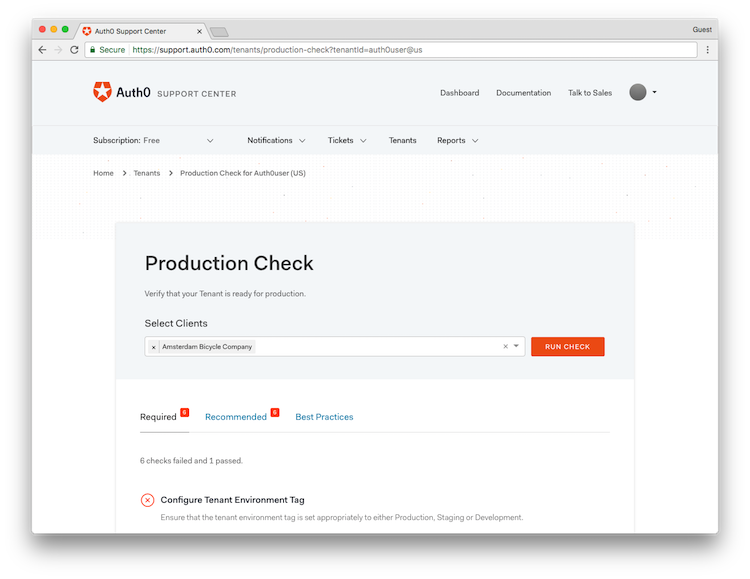
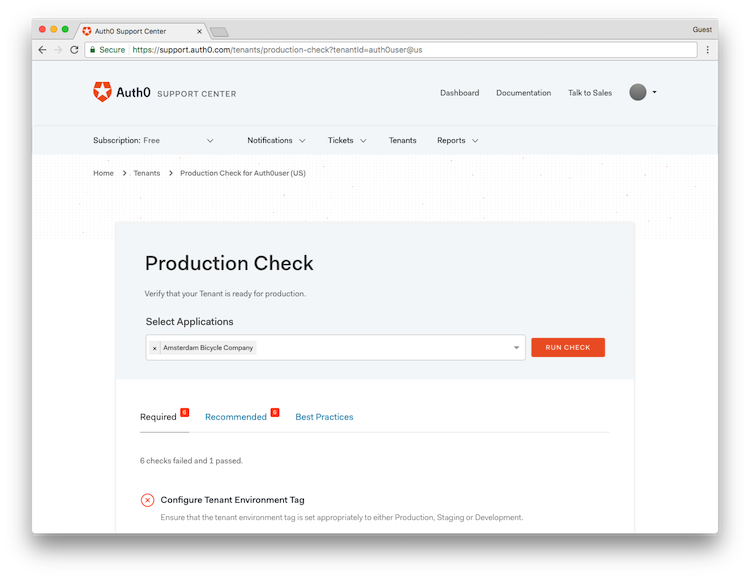
Production Checks updates (#6332)

Changed region(s): [[0.184, 0.5285, 0.3373, 0.6218], [0.6747, 0.5596, 0.828, 0.6218]]

diff --git a/articles/pre-deployment/index.html b/articles/pre-deployment/index.html
@@ -1,31 +1,32 @@
 ---
 classes: topic-page
-title: Pre-Deployment Tests
+title: Production Checks
 topics:
     - pre-deployment
     - pre-deployments-tests
     - tests
+    - production-checks
 ---
 
 <div class="topic-page-header">
   <div data-name="example" class="topic-page-badge"></div>
-  <h1>Pre-Deployment Tests</h1>
+  <h1>Production Checks</h1>
   <p>
-    Before you go live, run Auth0's pre-deployment test suite to ensure that your tenants are ready for use in a production environment.
+    Before you go live, run Auth0's production checks suite to ensure that your tenants are ready for use in a production environment.
   </p>
 </div>
 
 <ul class="topic-links">
   <li>
-    <i class="icon icon-budicon-715"></i><a href="/pre-deployment/how-to-run-test">How to Run the Pre-Deployment Tests</a>
+    <i class="icon icon-budicon-715"></i><a href="/pre-deployment/how-to-run-test">How to Run the Production Checks</a>
     <p>
-      Run the pre-deployment tests against one or more applications to see if they're production-ready or not.
+      Run the production checks against one or more applications to see if they're production-ready or not.
     </p>
   </li>
   <li>
-    <i class="icon icon-budicon-715"></i>Pre-Deployment Test Results
+    <i class="icon icon-budicon-715"></i><a href="/pre-deployment/how-to-run-test#production-check-results">Production Check Results</a>
     <p>
-      View your results to see any outstanding required and recommended tasks, as well changes you can make to ensure that you comply with best practices.
+      Production checks fall into the following categories:
     </p>
     <ul>
       <li>
@@ -38,6 +39,12 @@ topics:
         <i class="icon icon-budicon-695"></i><a href="/pre-deployment/tests/best-practice">Fixes to Comply with Best Practices</a>
       </li>
     </ul>
+  </li>
+  <li>
+    <i class="icon icon-budicon-715"></i><a href="/pre-deployment/how-to-run-test#how-to-read-your-results-set">How to Read Your Results Set</a>
+    <p>
+      View your results to see any outstanding required and recommended tasks, as well as changes you can make to ensure that you comply with best practices.
+    </p>
   </li>
   <li>
     <i class="icon icon-budicon-715"></i><a href="/pre-deployment/prelaunch-tips">Pre-Launch Tips</a>

diff --git a/articles/pre-deployment/how-to-run-test.md b/articles/pre-deployment/how-to-run-test.md
@@ -1,14 +1,16 @@
 ---
-description: How to run the Auth0 Pre-Deployment Tests to ensure that your Applications are production-ready
+description: How to run the Auth0 Production Check to ensure that your Applications are production-ready
 topics:
     - pre-deployment
     - pre-deployments-tests
     - tests
+    - production-checks
+contentType: how-to
 ---
 
-# How to Run the Pre-Deployment Test
+# How to Run the Production Checks
 
-The Pre-Deployment Tests are available via the [Auth0 Support Center](${env.DOMAIN_URL_SUPPORT}).
+The Production Checks can be reviewed in the [Auth0 Support Center Tenants section](${env.DOMAIN_URL_SUPPORT}/tenants/public).
 
 ![](/media/articles/support/pre-deployment-tests/support-home.png)
 
@@ -16,45 +18,48 @@ Once you've logged in to your account, click **Tenants** in the navigation bar.
 
 ![](/media/articles/support/pre-deployment-tests/tenants.png)
 
-You'll see a listing of all tenants associated with your Auth0 account. Each tenant displays in its own box. Identify the tenant for which you want to run the Pre-Deployment Tests, and click on the **gear icon** located in the top right-hand corner of its box.
+You'll see a listing of all tenants associated with your Auth0 account. Each tenant displays in its own box. Identify the tenant for which you want to run the Production Checks, and click on the **gear icon** located in the top right-hand corner of its box.
 
 ![](/media/articles/support/pre-deployment-tests/tenants-tests.png)
 
 Click **Run Production Check** to launch the testing interface.
 
-At this point, you'll be able to select one or more [Applications](/applications) associated with this tenant for which you want tests run.
+At this point, you'll be able to select one or more [Applications](/applications) associated with this tenant for which you want checks run.
 
-![](/media/articles/support/pre-deployment-tests/choose-clients.png)
+![](/media/articles/support/pre-deployment-tests/choose-applications.png)
 
 Once you've selected your applications, click **Run Check**.
 
-When the test is complete, your screen will automatically refresh to display your test results. 
+When the test is complete, your screen will automatically refresh to display your check results. 
 
 ![](/media/articles/support/pre-deployment-tests/results.png)
 
-There are three types of test results: Required, Recommended, and Best Practices.
+
+## Production Check Results
+
+There are three types of check results: Required, Recommended, and Best Practices.
 
 | Result Type | Description |
 | ----------- | ----------- |
-| Required | These tests check to see if you are missing any steps you **must** complete before deploying to Production, otherwise you'll see errors. |
-| Recommended | These tests check to see if you are missing any steps **recommended** by Auth0. While you do not have to complete the steps suggested, we recommend that you at least review the results to see if any of them are helpful to your implementation.
-| Best Practices | These areas are ones where Auth0 cannot check using automates tests. We list areas of possible concern, and we suggest that you review your implementation to see if you're compliant with Auth0 recommendations. |
+| Required | These checks see if you are missing any steps you **must** complete before deploying to Production; otherwise you'll see errors. |
+| Recommended | These checks see if you are missing any steps **recommended** by Auth0. While you do not have to complete the steps suggested, we recommend that you at least review the results to see if any of them are helpful to your implementation.
+| Best Practices | These areas are ones where Auth0 cannot use automated checks. We list areas of possible concern, and we suggest that you review your implementation to see if you're compliant with Auth0 recommendations. |
 
 ## How to Read Your Results Set
 
-The following are possible results for your test: Passed, Failed, Unable to Verify.
+The following are possible results for your check: Passed, Failed, Unable to Verify.
 
-Under each set of test results, Auth0 tells you how many tests your Application passed, as well as how many tests your Applications failed.
+Under each set of check results, Auth0 tells you how many checks your Application passed, as well as how many checks your Application failed.
 
 ![](/media/articles/support/pre-deployment-tests/reading-results.png)
 
-If your Applications **failed** one or more tests, Auth0 provides you:
+If your Application **failed** one or more checkss, Auth0 provides:
 
-* The name of the test
-* Information on what the test is looking for
-* Details on the error thrown to and retrieved by the test
-* Hyperlink to the appropriate area where you can make the required fixes so that your Application passes the test
+* The name of the check
+* Information on what the check is looking for
+* Details on the error thrown to and retrieved by the check
+* Hyperlink to the appropriate area where you can make the required fixes so that your Application passes the check
 
 ![](/media/articles/support/pre-deployment-tests/detailed-results.png)
 
-All of the tests that your Application **passed** are grouped together at the bottom of the results set. You can view the name of and information about the test, as well as review the associated documentation and use the hyperlink to go to the corresponding configuration area where you can make changes (if desired).
+All of the checks that your Application **passed** are grouped together at the bottom of the results set. You can view the name of and information about the check, as well as review the associated documentation and use the hyperlink to go to the corresponding configuration area where you can make changes (if desired).

diff --git a/articles/pre-deployment/tests/required.md b/articles/pre-deployment/tests/required.md
@@ -5,22 +5,29 @@ topics:
     - pre-deployments-tests
     - tests
     - requirements
+    - production-checks
+contentType: reference
 ---
 
-# Pre-Deployment Tests: Required Fixes
+# Production Checks: Required Fixes
 
-The following tests check to see if you've completed all requirements for successful deployment to Production.
+The following checks see if you've completed all requirements for successful deployment to Production.
 
 ::: note
-See [How to Read Your Results Set](/pre-deployment/how-to-run-test#how-to-read-your-results-set) for additional information on your testing output.
+See [How to Read Your Results Set](/pre-deployment/how-to-run-test#how-to-read-your-results-set) for additional information on your checks output.
 :::
 
-| Test | Description |
+| Check | Description |
 | ---- | ----------- |
-| [Allowed Callback Urls](tutorials/redirecting-users) Not Localhost | Validates the [Application Allowed Callback URLs do not point to localhost](${manage_url}/#/applications), 127.0.0.1, and so on |
-| Configure [Guardian SMS Provider](/multifactor-authentication/administrator/twilio-configuration) (Dependency: Guardian is Configured) | Ensures that [Twilio SMS is configured](${manage_url}/#/guardian) if you're using Guardian MFA |
-| Configure Tenant Environment Tag | Ensures the [tenant environment tag is set](${env.DOMAIN_URL_SUPPORT}/tenants/public) appropriately to Production, Staging or Development |
-| [Email Provider](/email/providers) Configured | Verifies that the [custom email provider has been configured](${manage_url}/#/emails/provider) |
-| [Social Connections](/connections/social/devkeys) Auth0 Dev Keys | Verifies that [Social Connections are not using the default Auth0 developer keys](${manage_url}/#/connections/social) |
-| Support Email is Configured | Ensures the [Support Email is configured](${manage_url}/#/account) in Tenant Settings |
-| Support URL is Configured | Ensures the [Support URL is configured](${manage_url}/#/account) in Tenant Settings |
+| [Allow ID Tokens for Management API v2 Authentication](/migrations/guides/calling-api-with-idtokens) is disabled | The capabilities for using ID Tokens to authorize some of the Users and Device Credentials endpoints of the Management API are being deprecated. After completing migration to Access Tokens, make sure the [`Allow ID Tokens for Management API v2 Authentication` toggle is turned off](${manage_url}/#/account/advanced). |
+| [Allowed Callback URLs](/tutorials/redirecting-users) are not Localhost | Validates the [Application Allowed Callback URLs do not point to localhost](${manage_url}/#/applications), 127.0.0.1, and so on. |
+| [Allowed Origins (CORS)](/cross-origin-authentication) is not Localhost | Validates that the [Location URL for the page does not point to localhost](${manage_url}/#/applications). |
+| [Allowed Web Origins are not Localhost](/applications/application-settings) | Validates that the [Allowed Web Origins URLs do not point to localhost](${manage_url}/#/applications). |
+| [Email Provider](/email/providers) is configured | Verifies that the [custom email provider has been configured](${manage_url}/#/emails/provider). |
+| [Guardian SMS Provider](/multifactor-authentication/administrator/twilio-configuration) is configured (Dependency: Guardian is configured) | Ensures that [Twilio SMS is configured](${manage_url}/#/guardian) if you're using Guardian MFA. |
+| [Legacy Lock Migration](/libraries/lock/v11/migration-guide#disabling-legacy-lock-api) is disabled | The `/usernamepassword/login` and `/ssodata` endpoints will be removed from service on July 16th, 2018. These are used by Lock.js v8, v9, v10, and auth0.js v6, v7 and v8. After completing the migration to the latest versions, make sure the [`Legacy Lock Migration` toggle is turned off](${manage_url}/#/account/advanced). |
+| [Legacy User Profile](/guides/migration-legacy-flows#user-profiles) is disabled | The legacy authentication flows that allow ID Tokens and the `/userinfo` endpoint to include the complete user profile are being deprecated. After completing the migration to the new OIDC-conformant APIs, make sure the [`Legacy User Profile` toggle is turned off](${manage_url}/#/account/advanced). |
+| [Social Connections](/connections/social/devkeys) are not using Auth0 Developer Keys | Verifies that [Social Connections are not using the default Auth0 developer keys](${manage_url}/#/connections/social). |
+| Support Email is configured | Ensures the [Support Email is configured](${manage_url}/#/account) in Tenant Settings. |
+| Support URL is configured | Ensures the [Support URL is configured](${manage_url}/#/account) in Tenant Settings. |
+| Tenant Environment Tag is configured | Ensures the [tenant environment tag is set](${env.DOMAIN_URL_SUPPORT}/tenants/public) appropriately to Production, Staging, or Development. |

diff --git a/articles/pre-deployment/tests/recommended.md b/articles/pre-deployment/tests/recommended.md
@@ -5,24 +5,28 @@ topics:
     - pre-deployments-tests
     - tests
     - recommendations
+    - production-checks
+contentType: reference
 ---
 
-# Pre-Deployment Tests: Recommended Fixes
+# Production Checks: Recommended Fixes
 
-The following tests check to see if you've completed all recommendations (which are optional) for successful deployment to Production.
+The following checks see if you've completed all recommendations (which are optional) for successful deployment to Production.
 
 ::: note
-See [How to Read Your Results Set](/pre-deployment/how-to-run-test#how-to-read-your-results-set) for additional information on your testing output.
+See [How to Read Your Results Set](/pre-deployment/how-to-run-test#how-to-read-your-results-set) for additional information on your checks output.
 :::
 
-| Test | Description |
+| Check | Description |
 | ---- | ----------- |
-| [Customer Error Page](/hosted-pages/custom-error-pages) Configured | [Configure a Custom Error Page](${manage_url}/#/account) with your application-specific details and corporate branding |
-| Customize [Guardian Multifactor Page](/hosted-pages/guardian) | If you're using Guardian Multifactor Authentication, [configure a Custom Hosted Page for Guardian Multifactor](${manage_url}/#/guardian_mfa_page) with your application details and corporate branding |
-| Customize [Login Page](/hosted-pages/login) | [Configure a Custom Hosted Page for Universal Login](${manage_url}/#/login_page) with your application details and corporate branding |
-| Customize [Password Reset Page](/hosted-pages/password-reset) | [Configure a Custom Hosted Page for Password Reset](${manage_url}/#/password_reset) with your application details and corporate branding |
-| [Email Templates](/email/custom) Configured | [Configure custom email templates](${manage_url}/#/emails) with your application specific details and corporate branding |
-| Enable [MFA for Tenant Administrators](/tutorials/manage-dashboard-admins) | [Enable multifactor authentication](${manage_url}/#/account/admins) for tenant administrators |
-| [Guardian Multifactor](/multifactor-authentication) or other Multifactor Authentication Providers | Consider [multifactor authentication](${manage_url}/#/guardian) as part of the authentication strategy |
-| [Redirect Logout URL](/logout#set-the-allowed-logout-urls-at-the-account-level) | Review the [Allowed Redirect Logout URLs](${manage_url}/#/account/advanced) for your Applications |
-| Use RS256 Instead of HS256 | Set the JSONWebToken [Signature Algorithm](/apis#signing-algorithms) to RS256 instead of HS256 |
+| [Authorization Extension](/extensions/authorization-extension/v2) | Evaluate the [Authorization Extension if you have authorization requirements](${manage_url}/#/extensions). |
+| [Custom Domain](/custom-domains) is configured | Use [custom domains with Universal Login](${manage_url}/#/tenant/custom_domains) for the most seamless and secure experience for your end users. |
+| [Custom Error Page](/hosted-pages/custom-error-pages) is configured | [Configure a Custom Error Page](${manage_url}/#/account) with your application-specific details and corporate branding. |
+| [Email Templates](/email/custom) are configured | [Configure custom email templates](${manage_url}/#/emails) with your application specific details and corporate branding. |
+| [Guardian Multifactor](/multifactor-authentication) or other Multifactor Authentication Providers | Consider [multifactor authentication](${manage_url}/#/guardian) as part of the authentication strategy. |
+| [Guardian Multifactor Page](/hosted-pages/guardian) is customized | If you're using Guardian Multifactor Authentication, [configure a Custom Hosted Page for Guardian Multifactor](${manage_url}/#/guardian_mfa_page) with your application details and corporate branding. |
+| [Hosted Login Page](/hosted-pages/login) is customized | [Configure a Custom Hosted Page for Universal Login](${manage_url}/#/login_page) with your application details and corporate branding. |
+| [MFA for Tenant Administrators](/tutorials/manage-dashboard-admins) is enabled | [Enable multifactor authentication](${manage_url}/#/account/admins) for tenant administrators. |
+| [Password Reset Page](/hosted-pages/password-reset) is customized | [Configure a Custom Hosted Page for Password Reset](${manage_url}/#/password_reset) with your application details and corporate branding. |
+| [Redirect Logout URL](/logout#set-the-allowed-logout-urls-at-the-account-level) | Review the [Allowed Redirect Logout URLs](${manage_url}/#/account/advanced) for your Application. |
+| Use RS256 Instead of HS256 | Set the JSONWebToken [Signature Algorithm](/apis#signing-algorithms) to RS256 instead of HS256. |

diff --git a/articles/applications/application-settings/_settings-pt2.md b/articles/applications/application-settings/_settings-pt2.md
@@ -1,12 +1,12 @@
 <!-- markdownlint-disable -->
 
-- **Allowed Callback URLs**: Set of URLs to which Auth0 is allowed to redirect the users after they authenticate. You can specify multiple valid URLs by comma-separating them (typically to handle different environments like QA or testing). You can use the star symbol as a wildcard for subdomains (`*.google.com`). Make sure to specify the protocol, `http://` or `https://`, otherwise the callback may fail in some cases.
+- **Allowed Callback URLs**: Set of URLs to which Auth0 is allowed to redirect the users after they authenticate. You can specify multiple valid URLs by comma-separating them (typically to handle different environments like QA or testing). For production environments, verify that the URLs do not point to localhost. You can use the star symbol as a wildcard for subdomains (`*.google.com`). Make sure to specify the protocol, `http://` or `https://`, otherwise the callback may fail in some cases.
 
-- **Allowed Web Origins**: List of URLs from where an authorization request, using [`web_message` as the response mode](/protocols/oauth2#how-response-mode-works), can originate from. You can specify multiple valid URLs by comma-separating them.
+- **Allowed Web Origins**: List of URLs from where an authorization request, using [`web_message` as the response mode](/protocols/oauth2#how-response-mode-works), can originate from. You can specify multiple valid URLs by comma-separating them. For production environments, verify that the URLs do not point to localhost.
 
-- **Allowed Logout URLs**: After a user logs out from Auth0 you can redirect them with the `returnTo` query parameter. The URL that you use in `returnTo` must be listed here. You can specify multiple valid URLs by comma-separating them. You can use the star symbol as a wildcard for subdomains (`*.google.com`). Notice that querystrings and hash information are not taken into account when validating these URLs. Read more about this at: [Logout](/logout).
+- **Allowed Logout URLs**: After a user logs out from Auth0 you can redirect them with the `returnTo` query parameter. The URL that you use in `returnTo` must be listed here. You can specify multiple valid URLs by comma-separating them.  For production environments, verify that the URLs do not point to localhost. You can use the star symbol as a wildcard for subdomains (`*.google.com`). Notice that querystrings and hash information are not taken into account when validating these URLs. Read more about this at: [Logout](/logout).
 
-- **Allowed Origins (CORS)**: Set of URLs that will be allowed to make requests from JavaScript to Auth0 API (typically used with CORS). This prevents same-origin policy errors when using Auth0 from within a web browser. By default, all your callback URLs will be allowed. This field allows you to enter other origins if you need to. You can specify multiple valid URLs by comma-separating them. You can use the star symbol as a wildcard for subdomains (`*.google.com`). Notice that paths, querystrings and hash information are not taken into account when validating these URLs (and may, in fact, cause the match to fail).
+- **Allowed Origins (CORS)**: Set of URLs that will be allowed to make requests from JavaScript to Auth0 API (typically used with CORS). This prevents same-origin policy errors when using Auth0 from within a web browser. By default, all your callback URLs will be allowed. This field allows you to enter other origins if you need to. You can specify multiple valid URLs by comma-separating them. For production environments, verify that the URLs do not point to localhost. You can use the star symbol as a wildcard for subdomains (`*.google.com`). Notice that paths, querystrings and hash information are not taken into account when validating these URLs (and may, in fact, cause the match to fail).
 
 - **JWT Expiration (seconds)**: The amount of time (in seconds) before the Auth0 ID Token expires. The default value is `36000`, which maps to 10 hours.
 

diff --git a/articles/pre-deployment/tests/best-practice.md b/articles/pre-deployment/tests/best-practice.md
@@ -5,18 +5,20 @@ topics:
     - pre-deployments-tests
     - tests
     - best-practices
+    - production-checks
+contentType: reference
 ---
 
-# Pre-Deployment Tests: Best Practices
+# Production Checks: Best Practices
 
 The following checks cannot be automated, so we recommend manually checking these areas prior to deployment to Production.
 
 | Check | Description |
 | ---- | ----------- |
-| [Anomaly Detection](/anomaly-detection) | Review your account's [Anomaly Detection](${manage_url}/#/anomaly) capability and configuration |
-| Externalize [Configuration Parameters](/connections/database/mysql#4-add-configuration-parameters) | [Externalize, instead of hard code, all configuration parameters](${manage_url}/#/connections/database), such as credentials, connection strings, API keys, and so on, when developing Rules, Hooks, or custom database connections |
-| Restrict Delegation | If not using Delegation, set the Allowed Apps and APIs field of your Application Settings to the current Client ID |
-| SSO Timeout Values | Review the default [SSO cookie timeout values](${manage_url}/#/account/advanced) and ensure it aligns with your requirements |
+| [Anomaly Detection](/anomaly-detection) | Review your account's [Anomaly Detection capability and configuration](${manage_url}/#/anomaly). |
+| Externalize [Configuration Parameters](/connections/database/mysql#4-add-configuration-parameters) | [Externalize, instead of hard code, all configuration parameters](${manage_url}/#/connections/database), such as credentials, connection strings, API keys, and so on, when developing Rules, Hooks, or custom database connections. |
+| [Restrict Delegation](/applications/application-settings/single-page-app#oauth) | If not using Delegation, set the Allowed Apps and APIs field of your Application Settings to the current Client ID. |
+| SSO Timeout Values | Review the default [SSO cookie timeout values](${manage_url}/#/account/advanced) and ensure they align with your requirements. |
 | Tenants and Administrators | Review all tenants and tenant administrators to ensure they are correct. Decommission tenants that are no longer in use. Ensure that tenant administrators are limited to the necessary users. |
-| Verify Client IDs in App Code | Ensure that the Client IDs in your application code match those with their Auth0 Application configurations |
-| Whitelist Auth0 Public IPs | Whitelist Auth0 IPs if you're connecting to internal services or services behind a firewall when using Rules, Hooks, or custom databases. You can get a list of IP addresses in the tool tip when configuring any of these items |
+| Verify Client IDs in App Code | Ensure that the Client IDs in your application code align with their Auth0 Application configurations. |
+| Whitelist Auth0 Public IPs | Whitelist Auth0 IPs if you're connecting to internal services or services behind a firewall when using Rules, Hooks, or custom databases. You can get a list of IP addresses in the tool tip when configuring any of these items. |

diff --git a/articles/migrations/guides/calling-api-with-idtokens.md b/articles/migrations/guides/calling-api-with-idtokens.md
@@ -7,17 +7,21 @@ topics:
   - management-api
   - id-tokens
   - tokens
+contentType: 
+    - concept
+    - how-to
+    - reference
 ---
 
 # Migration Guide: Management API and ID Tokens
 
 For some use cases you could use [ID Tokens](/tokens/id-token) in order to call some of the [Users](/api/management/v2#!/Users/get_users_by_id) and [Device Credentials](/api/management/v2#!/Device_Credentials/get_device_credentials) endpoints of the Management API. 
 
-This functionality is being deprecated. You will have to use proper [Access Tokens](/tokens/access-token) in order to access any of the endpoints of the [Management API](/api/management/v2).
+This functionality is being deprecated. You will have to use proper [Access Tokens](/tokens/access-token) in order to access any of the endpoints of the [Management API](/api/management/v2). Make sure the `Allow ID Tokens for Management API v2 Authentication` toggle is turned off after completing the migration to Access Tokens.
 
 The grace period for this migration started on **March 31, 2018** and at the moment is open-ended. This means that you will still be able to use ID Tokens to access these endpoints. When a mandatory opt-in date is set for this migration customers will be notified beforehand.
 
-However, customers are encouraged to migrate to Access Tokens. This article will help you with that. 
+Customers are encouraged to migrate to Access Tokens. This guide will help you with that. 
 
 First, we will see which use cases are affected. We will continue with reviewing how you can use [scopes](/scopes) to get tokens with different access rights, and then see all the ways you can use to get an Access Token. Finally, we will review the changes introduced in the [Account Linking](/link-accounts) process.
 

diff --git a/articles/guides/migration-legacy-flows.md b/articles/guides/migration-legacy-flows.md
@@ -9,6 +9,10 @@ topics:
     - auth0js
     - tokens
     - user-profiles
+contentType: 
+    - concept
+    - how-to
+    - reference
 ---
 # Migrating from Legacy Authentication Flows
 
@@ -58,7 +62,7 @@ Check the [Silent Authentication documentation](/api-auth/tutorials/silent-authe
 
 ## Calling APIs
 
-Legacy applications used an [ID Token](/tokens/id-token) to invoke APIs. This [is a bad practice](/api-auth/why-use-access-tokens-to-secure-apis) and we recommend you to start using [Access Tokens](/tokens/access-token).
+Legacy applications used an [ID Token](/tokens/id-token) to invoke APIs. This [is a bad practice](/api-auth/why-use-access-tokens-to-secure-apis), and we recommend that you start using [Access Tokens](/tokens/access-token).
 
 To call an API, you will need to specify the API identifier as the `audience` parameter when initializing auth0.js or Lock.
 
@@ -75,6 +79,8 @@ If you specify an audience, then the OIDC flow will be triggered and the user pr
 You can check the **Calling an API** section of our [SPA Quickstarts](/quickstart/backend) for more information on how to call APIs from SPAs. You will also need to migrate your backend API implementation to use Access Tokens. You can look at our [API Quickstarts](/quickstart/backend) for instructions on how to do this.
 
 ## User Profiles
+
+The legacy authentication flows that allow ID Tokens and the `/userinfo` endpoint to include the complete user profile are being deprecated. Make sure the `Legacy User Profile` toggle is turned off after completing the migration to the new OIDC-conformant APIs.
 
 When using the legacy authentication flows, the entire user profile is returned in ID Tokens and from `/userinfo`, as demonstrated below.
 

diff --git a/articles/libraries/lock/v11/migration-guide.md b/articles/libraries/lock/v11/migration-guide.md
@@ -41,7 +41,7 @@ If you have any questions or concerns, you can discuss them in the [Auth0 Commun
 
 ## Disabling legacy Lock API
 
-After you update to Lock v11 and/or Auth0.js v9, it is advised that you turn off the **Legacy Lock API** toggle in the Dashboard. This will make your Auth0 tenant behave as if the legacy API is no longer available. Starting on July 16, 2018, this option will be forcibly disabled, so it is recommended you opt-in before that time to verify that your configuration will work correctly. 
+After completing the migration to the latest versions, make sure that you turn off the **Legacy Lock API** toggle in the Dashboard. This will make your Auth0 tenant behave as if the legacy API is no longer available. Starting on **July 16, 2018**, this option will be forcibly disabled, so it is recommended you opt-in before that time to verify that your configuration will work correctly.
 
 You can find the setting in the [Advanced section](${manage_url}/#/tenant/advanced) of Tenant Settings.
 

diff --git a/articles/custom-domains/index.md b/articles/custom-domains/index.md
@@ -12,7 +12,7 @@ Auth0 allows you to map the domain for your tenant to a custom domain of your ch
 
 For example, if your Auth0 domain is **northwind.auth0.com**, you can have your users to see, use, and remain on **login.northwind.com**.
 
-Using custom domains with Universal Login is the most seamless and secure experience for developers and end users. For more information, please see our docs on [Universal Login](/hosted-pages/login).
+It is recommended that you use custom domains with Universal Login for the most seamless and secure experience for your end users. Check the [Universal Login documentation](/hosted-pages/login) to see if your plan and use case support custom domains. 
 
 ## Prerequisites
 

diff --git a/articles/cross-origin-authentication/index.md b/articles/cross-origin-authentication/index.md
@@ -76,6 +76,8 @@ When third party cookies are not available, **auth0.js** will render an `iframe`
 
 Add the URL of this callback page to the **Cross-Origin Verification Fallback** field in your Application's settings in the [Dashboard](${manage_url}), under the **Advanced > OAuth** panel.
 
+For production environments, verify that the Location URL for the page does not point to localhost.
+
 ::: note
 See the [cross-origin auth sample](https://github.com/auth0/lock/blob/master/support/callback-cross-auth.html) for more detail.
 :::

diff --git a/articles/pre-deployment/prelaunch-tips.md b/articles/pre-deployment/prelaunch-tips.md
@@ -1,10 +1,11 @@
 ---
-title: Pre-launch Tips 
+title: Pre-Launch Tips 
 description: A list of helpful tips for when getting started with Auth0 services based on feedback and experience from others.
 topics:
     - pre-deployment
     - pre-launch
     - tips-and-tricks
+    - production-checks
 ---
 
 # Pre-Launch Tips 
